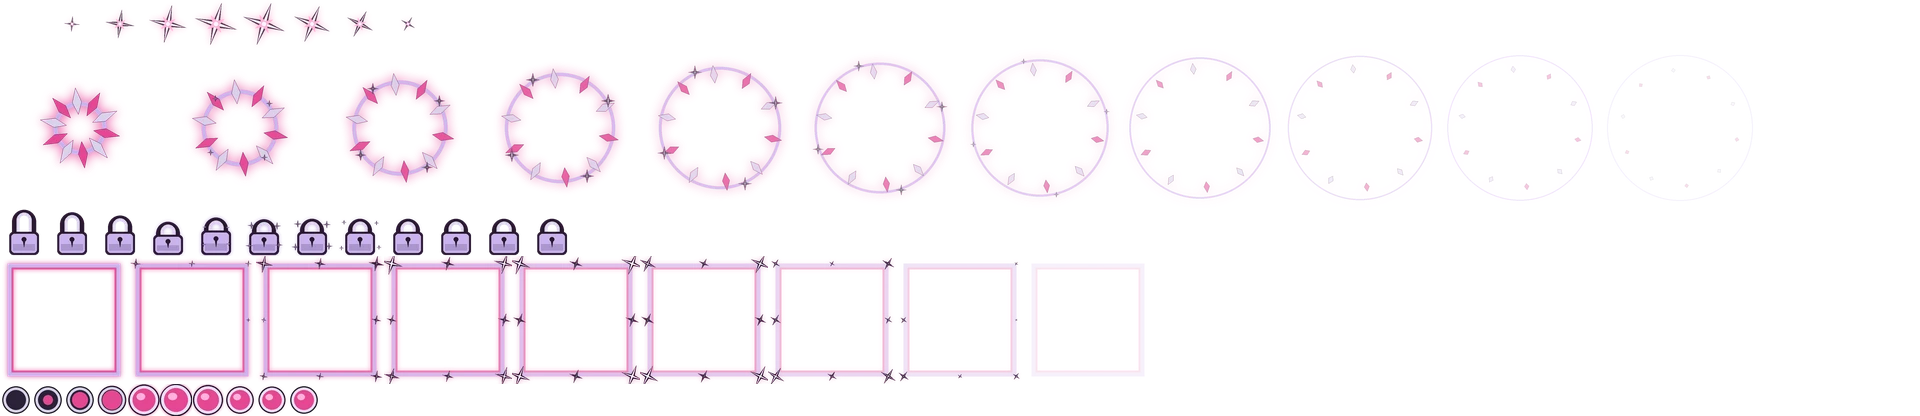
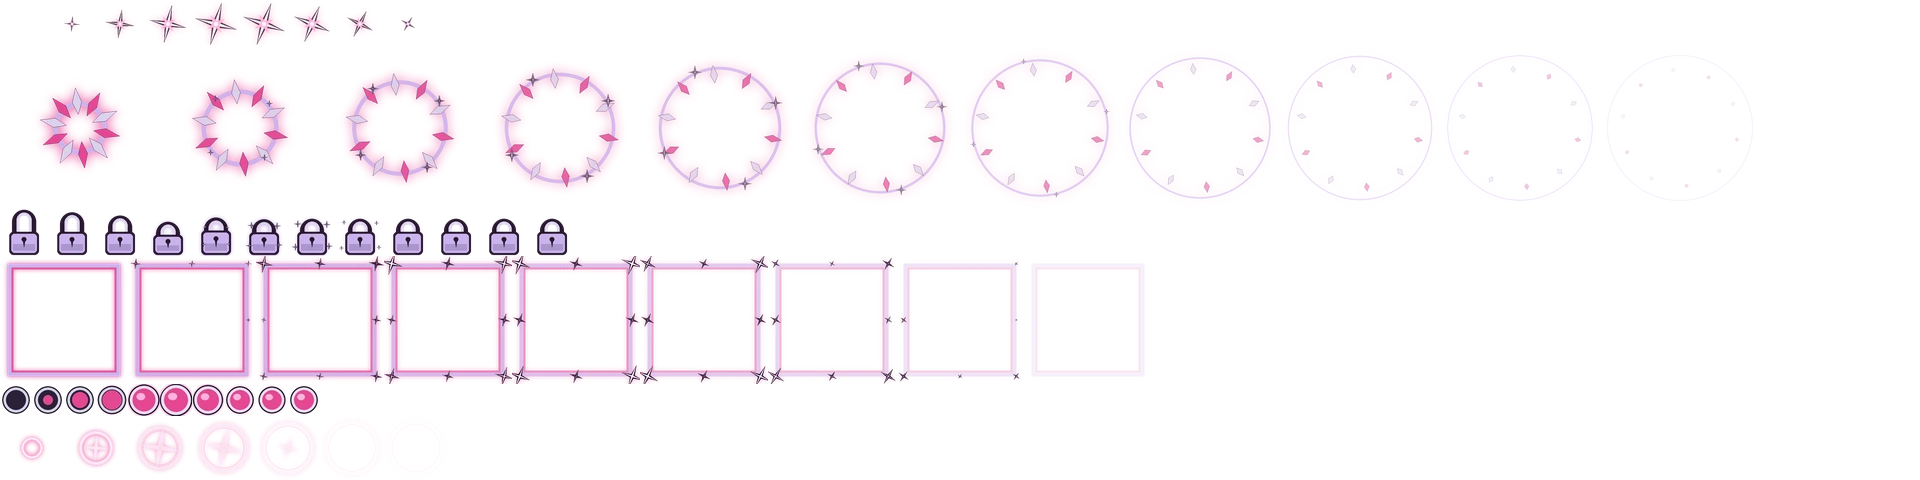
Sprites: reel_blur spin sheet (gen_reelblur.py, 12f looping vertical blur strips) and rcflash refill burst in fx_ui

diff --git a/frontend/apps/elfhaus/scripts/sprites/gen_reelblur.py b/frontend/apps/elfhaus/scripts/sprites/gen_reelblur.py
@@ -1,0 +1,41 @@
+"""Reel spin: a looping, vertically motion-blurred strip of the symbol art, one cell window per frame.
+sheet reel_blur: spinA / spinB (two symbol orders so neighbouring reels differ), 12 frames each, 30 fps loop."""
+import os
+from PIL import Image, ImageFilter
+from sprlib import ROOT, pack
+
+F = 192; N = 12
+ART = os.path.join(ROOT, 'assets/final/webp')
+SYM = {'H1': 'symbol_H1', 'H2': 'symbol_H2', 'H3': 'symbol_H3', 'H4': 'symbol_H4', 'L1': 'symbol_L1_spin_bottle',
+       'L2': 'symbol_L2_lips', 'L3': 'symbol_L3_pink_phone', 'L4': 'symbol_L4_red_cup', 'L5': 'symbol_L5_leaf', 'W': 'wild_W_single'}
+
+def tile(n):
+    im = Image.open(os.path.join(ART, SYM[n] + '.webp')).convert('RGBA')
+    im.thumbnail((int(F * .86), int(F * .86)), Image.LANCZOS)
+    t = Image.new('RGBA', (F, F), (0, 0, 0, 0)); t.alpha_composite(im, ((F - im.width) // 2, (F - im.height) // 2)); return t
+
+def vblur(im, r):
+    # box-average vertical shifts = linear motion blur
+    acc = None; k = 0
+    for dy in range(-r, r + 1, 4):
+        s = Image.new('RGBA', im.size); s.paste(im, (0, dy)); k += 1
+        acc = s if acc is None else Image.blend(acc, s, 1 / k)
+    return acc
+
+def strip(order):
+    s = Image.new('RGBA', (F, F * (len(order) + 3)), (0, 0, 0, 0))
+    for i, n in enumerate(order[-1:] + order + order[:2]): s.alpha_composite(tile(n), (0, i * F))
+    return s
+
+def frames(order):
+    s = strip(order); cyc = F * len(order); out = []
+    # blur the wrapped strip once, then cut windows (seamless: window k at k*cyc/N)
+    b = vblur(s, 72)
+    for k in range(N):
+        y = F + int(k * cyc / N)
+        fr = b.crop((0, y, F, y + F)); a = fr.getchannel('A').point(lambda v: int(v * .82)); fr.putalpha(a)
+        out.append(fr)
+    return out
+
+pack('reel_blur', {'spinA': (frames(['H1', 'L3', 'H4', 'L1', 'W', 'L5']), 30, True),
+                   'spinB': (frames(['L2', 'H3', 'L4', 'H2', 'L5', 'H1']), 30, True)}, cols=12, quality=70, alpha_quality=70)

diff --git a/frontend/apps/elfhaus/scripts/sprites/gen_fx_ui.py b/frontend/apps/elfhaus/scripts/sprites/gen_fx_ui.py
@@ -165,9 +165,24 @@ def rcfill(n=10, S=32):
         fr.append(down(im, S, S, [0,0,0,.2,.6,.7,.5,.3,.12,0][i], '#F06AAE', 0.1))
     return fr
 
+# ---------------- respin refill flash: a ring burst + star behind a circle that relights ----------------
+def rcflash(n=9, S=64):
+    fr = []
+    for i in range(n):
+        t = i / (n - 1)
+        im = canvas(S, S); d = ImageDraw.Draw(im); c = S * SS / 2
+        a = int(255 * (1 - t) ** 1.1)
+        R = c * (0.32 + 0.6 * ease_out(t)); w = max(SS, int(SS * 3.2 * (1 - t)))
+        d.ellipse([c - R, c - R, c + R, c + R], outline=rgba(WHITE, a), width=w)
+        d.ellipse([c - R * .82, c - R * .82, c + R * .82, c + R * .82], outline=rgba(PINKL, int(a * .7)), width=max(1, w // 2))
+        sr = c * 0.62 * math.sin(min(1, t * 1.6) * math.pi)
+        if sr > SS: star4(d, c, c, sr, .2, t * .6, rgba(WHITE, a))
+        fr.append(down(im, S, S, 0.8 * (1 - t), '#F06AAE', 0.08))
+    return fr
+
 ANIMS = {  # name: (frames, fps, loop)
     'glint': (glint(), 24, False), 'mxburst': (mxburst(), 24, False), 'lock': (lock(), 24, False),
-    'lockrim': (lockrim(), 24, False), 'rcfill': (rcfill(), 30, False),
+    'lockrim': (lockrim(), 24, False), 'rcfill': (rcfill(), 30, False), 'rcflash': (rcflash(), 30, False),
 }
 
 def pack():
